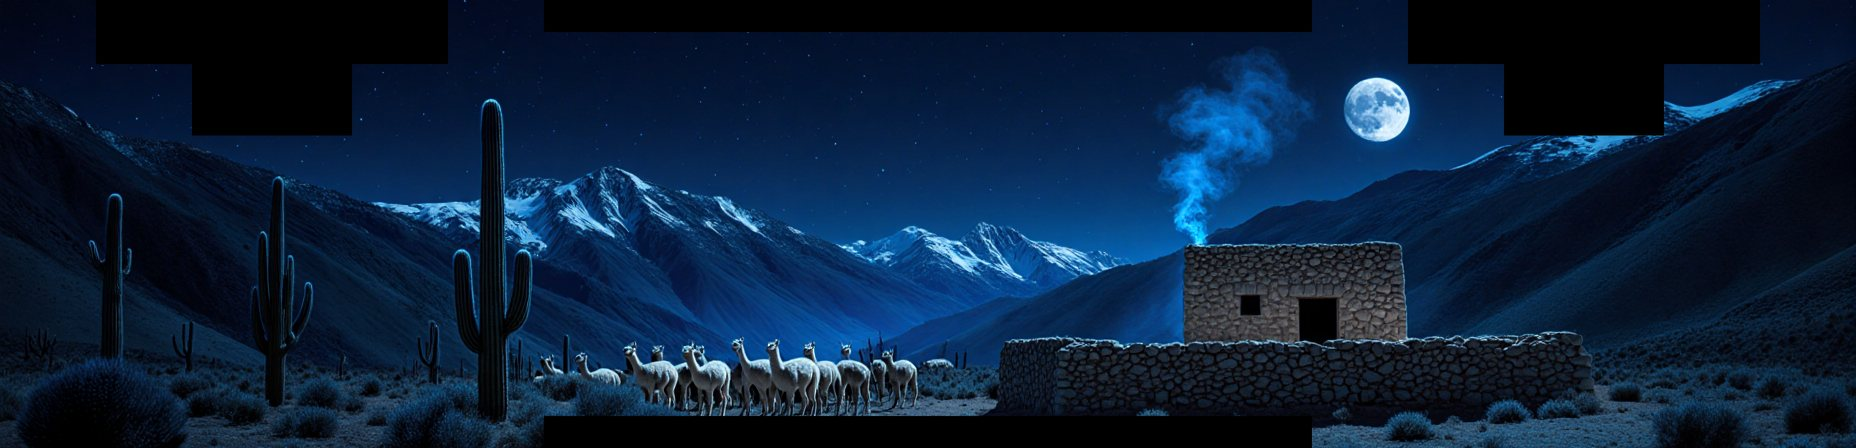
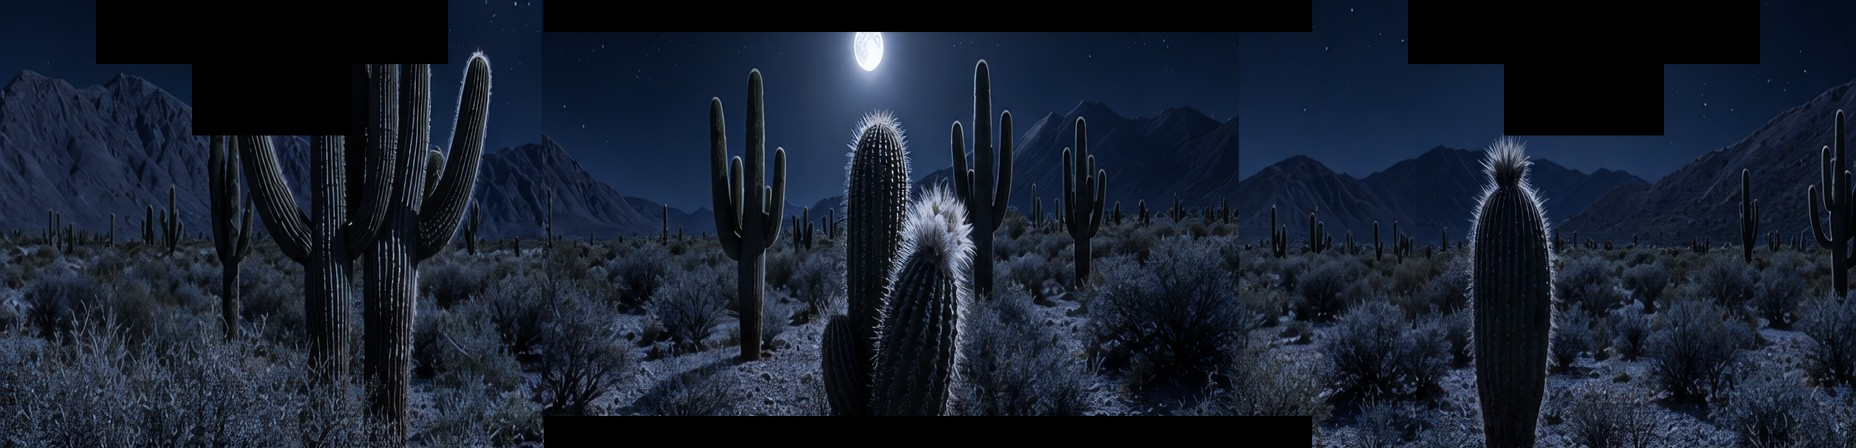
B1.03: noche de luna nueva (centro con la imagen del equipo, montanas con los cardones nuevos)
Centro: imagen del equipo (ElevenLabs gpt-image + Topaz). Montanas: el atardecer v2 re-iluminado de noche
con la paleta de esa imagen, con mascara y silueta 2025.

diff --git a/pipeline/b1_atardecer_2025/luna_b103.py b/pipeline/b1_atardecer_2025/luna_b103.py
@@ -1,0 +1,58 @@
+# -*- coding: utf-8 -*-
+"""B1.03 · noche de luna a partir de la imagen del usuario (ElevenLabs/gpt-image, upscale Topaz 3240x1080 con 3 filas).
+- centro: la fila 1 del usuario, llevada a 1856x448 + máscara de las pantallas (calza con la composición del atardecer).
+- montañas: las filas del usuario vienen achatadas y no siguen la silueta -> se re-ilumina de noche el atardecer actual
+  (con los cardones nuevos) con Qwen, se copia la paleta de la fila del usuario y se aplica máscara + silueta 2025.
+Uso: python luna_b103.py COMPOSITE.png DIR_SALIDA"""
+import os, sys, hashlib
+sys.path.insert(0, "D:/FNT2026/WEB_FNT2026/pipeline"); sys.path.insert(0, "D:/FNT2026/WEB_FNT2026/pipeline/b1_atardecer_2025")
+import numpy as np
+from PIL import Image
+import comfy, graphs, surfaces, flux_cine
+
+COMP, OUT = sys.argv[1], sys.argv[2]; os.makedirs(os.path.join(OUT, "raw"), exist_ok=True)
+B = "D:/FNT2026/03_BLOQUES/B1_PAISAJES/B1.03_PASTORES/02_IA_GENERACION/ATARDECER_2026_v2"
+FILAS = {"cen": (0, 462), "der": (464, 753), "izq": (755, 1080)}
+TAM = {"cen": (1856, 448), "der": (2048, 600), "izq": (1920, 600)}
+EXT = {"izq": "right", "der": "left"}          # la luna entra desde el centro del escenario
+C = Image.open(COMP).convert("RGB")
+
+
+def prompt(s):
+    return ("Relight this exact image as a clear moonlit night. Cold silver-blue moonlight comes from the " + EXT[s] + " and rakes across the slope: "
+            "pale blue-white highlights on the stones, the cacti spines and the tops of the shrubs, deep navy-blue shadows, long soft moon shadows on the ground, "
+            "strong cool blue color grading, the local colors desaturated by the moonlight. The cacti glow with a thin silver rim light on their spines. "
+            "There is no sky in this image: everything above the ridgeline is the pure black background; do not paint any sky, moon, stars or distant mountains. "
+            "Keep every cactus, shrub, stone and the whole composition exactly the same; only the lighting and colors change. "
+            "Crisp clear air: no fog, no mist, no haze and no glow along the outline. Keep the black background pure black.")
+
+
+def paleta(img, ref, mask):
+    """Transfiere media y desvío por canal (en el área del cerro) de ref a img."""
+    a = np.asarray(img).astype(np.float32); r = np.asarray(ref).astype(np.float32); o = a.copy()
+    rm = r.mean(-1) > 12
+    for c in range(3):
+        am, as_ = a[..., c][mask].mean(), a[..., c][mask].std() + 1e-3
+        bm, bs = r[..., c][rm].mean(), r[..., c][rm].std() + 1e-3
+        o[..., c] = (a[..., c] - am) * (bs / as_) + bm
+    return Image.fromarray(np.clip(o, 0, 255).astype(np.uint8))
+
+
+for s in ("cen", "izq", "der"):
+    y0, y1 = FILAS[s]
+    fila = C.crop((0, y0, C.width, y1))
+    if s == "cen":
+        fin = surfaces.apply_mask(fila.resize(TAM[s], Image.LANCZOS), s)
+    else:
+        base = Image.open(f"{B}/B1.03_atardecer_v2_{s}_{TAM[s][0]}x{TAM[s][1]}.png").convert("RGB")
+        seed = int(hashlib.md5(("B1.03" + s + "luna_user").encode()).hexdigest()[:6], 16)
+        r = comfy.run(graphs.qwen_edit([comfy.put_input(base, f"fnt26_b103_{s}_atd.png")], prompt(s), seed, f"FNT26/B103luna/{s}", megapixels=1.4),
+                      os.path.join(OUT, "raw"), label=f"B1.03 luna {s}")
+        q = Image.open(r[0]).convert("RGB").resize(TAM[s], Image.LANCZOS)
+        sil = flux_cine.silueta_2025("B1.03", s, TAM[s])
+        q = paleta(q, fila, sil > 0.5)
+        fin = surfaces.apply_mask(q, s)
+        fin = Image.fromarray((np.asarray(fin).astype(np.float32) * sil[..., None] + .5).astype(np.uint8))
+    fin.save(os.path.join(OUT, f"B1.03_luna_{s}_{TAM[s][0]}x{TAM[s][1]}.png"))
+    print("ok", s, flush=True)
+print("===LISTO===")
